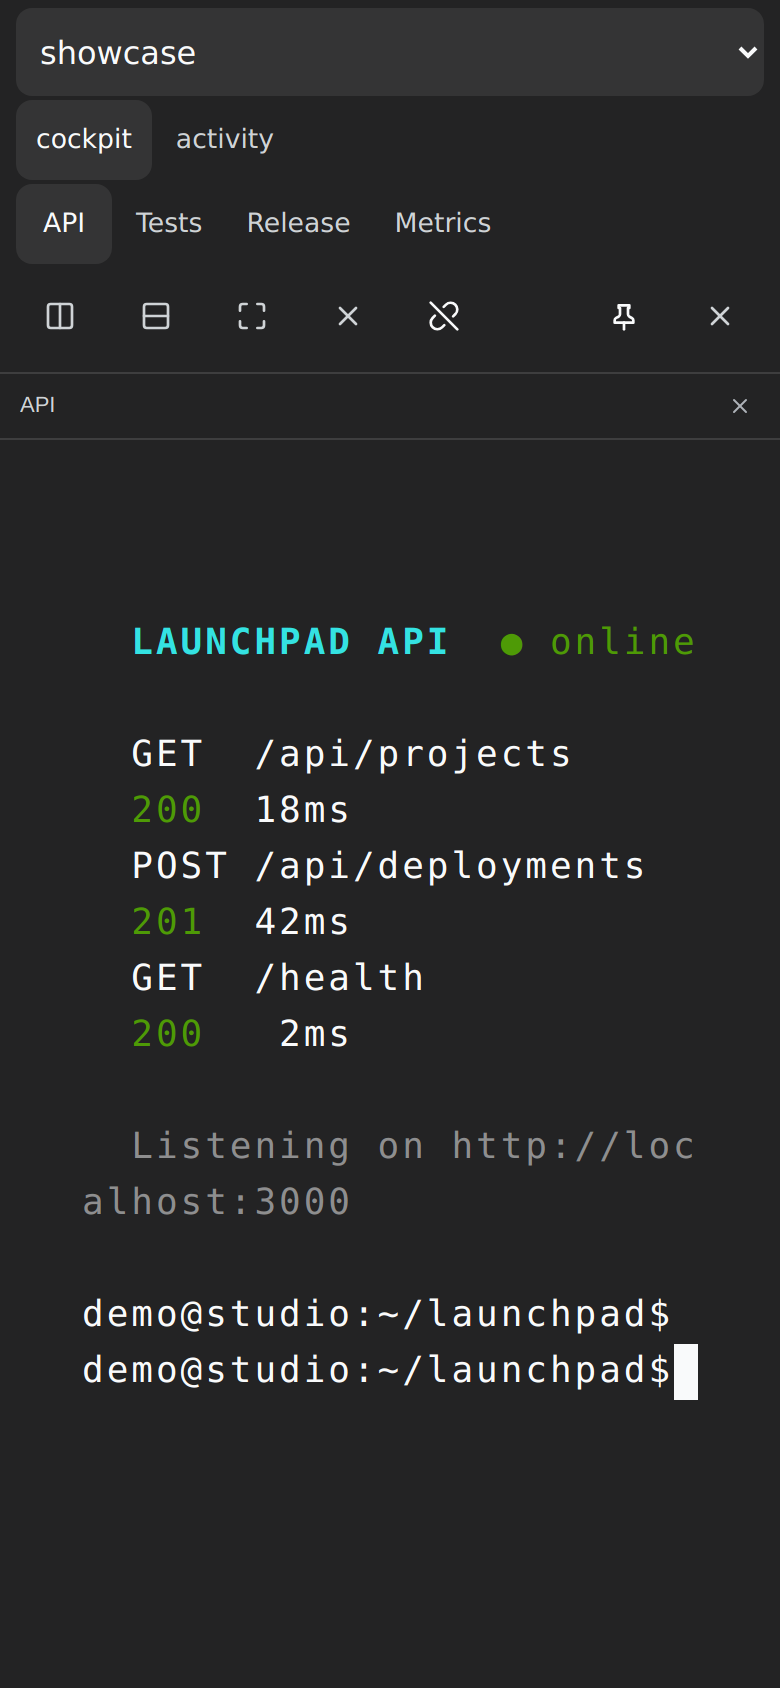
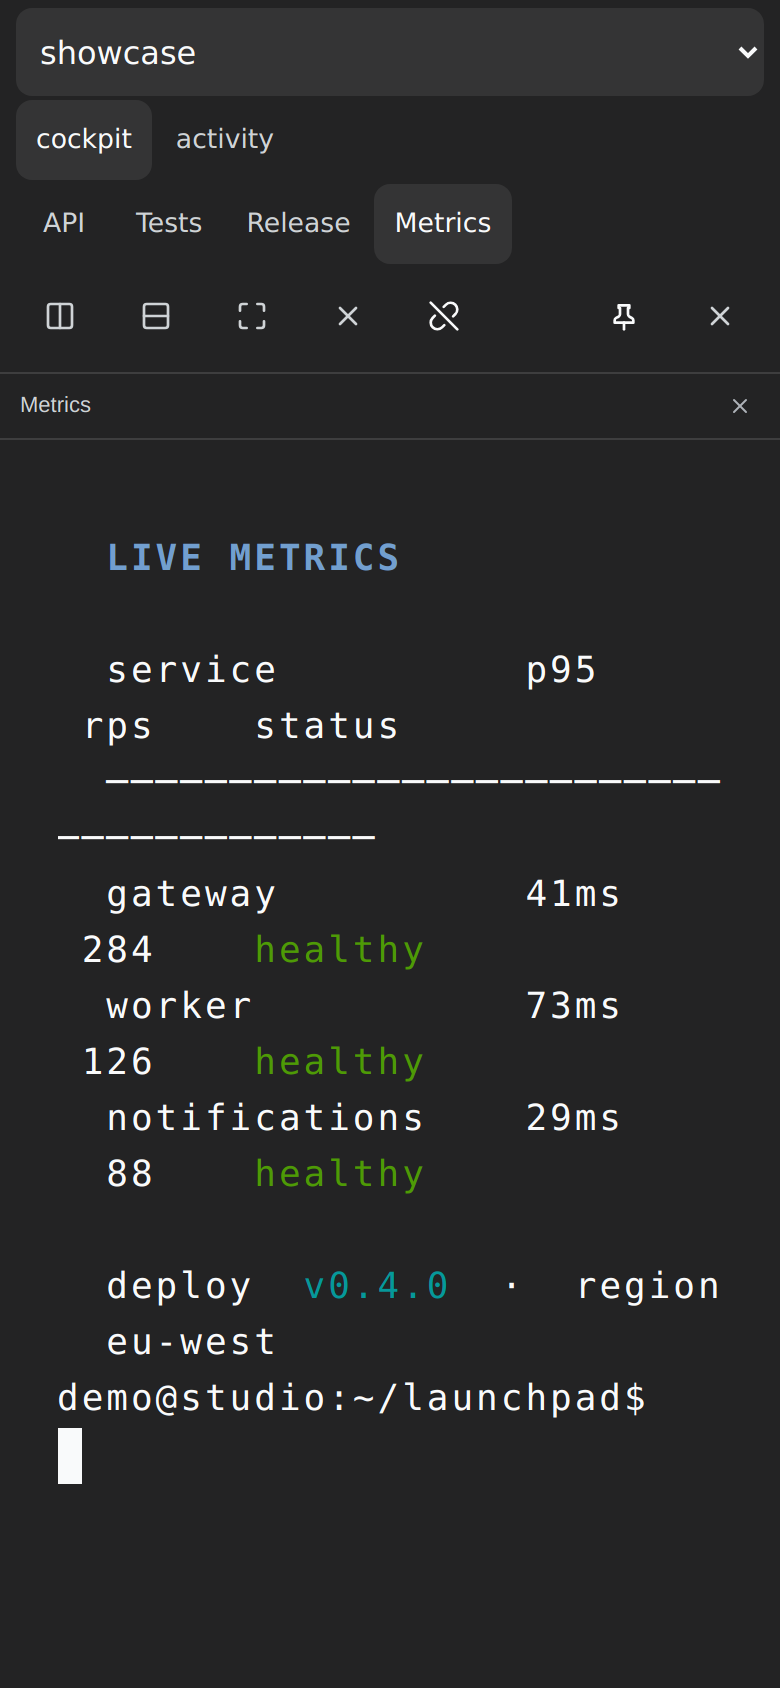
fix: fill mobile cockpit with active pane

diff --git a/lib/client.js b/lib/client.js
@@ -376,7 +376,8 @@ window.__ModuleLoader__.load({
   }
   [data-tmux-cc-shell][data-mobile="1"] [data-tmux-cc-pane]{display:none}
   [data-tmux-cc-shell][data-mobile="1"] [data-tmux-cc-pane][data-active="1"]{
-    display:flex;inset:0;width:100% !important;height:100% !important;box-shadow:none;outline:none;
+    display:flex;left:0 !important;top:0 !important;width:100% !important;height:100% !important;
+    box-shadow:none;outline:none;
   }
   [data-tmux-cc-shell][data-mobile="1"] [data-tmux-cc-ptitle]{height:32px;padding-left:10px}
   [data-tmux-cc-shell][data-mobile="1"] [data-tmux-cc-pclose]{width:32px;height:32px;opacity:1}

diff --git a/src/client-paint.test.ts b/src/client-paint.test.ts
@@ -33,6 +33,8 @@ test('client bundle invariants', () => {
   assert.match(src, /data-tmux-cc-pane-tab/)
   assert.match(src, /prefs\.open && !isNarrowViewport\(\)/)
   assert.match(src, /data-mobile="1"/)
+  // Inline tmux geometry must not survive when a mobile pane becomes active.
+  assert.match(src, /left:0 !important;top:0 !important;width:100% !important;height:100% !important/)
   // IME composition keys must never trigger tmux shortcuts.
   assert.match(src, /event\.isComposing \|\| event\.keyCode === 229/)
 })

diff --git a/CHANGELOG.md b/CHANGELOG.md
@@ -6,6 +6,12 @@ The format follows [Keep a Changelog](https://keepachangelog.com/en/1.1.0/), and
 
 ## [Unreleased]
 
+## [0.4.1]
+
+### Fixed
+
+- Mobile pane switching now overrides the pane's inline desktop `left`/`top` geometry, so every selected pane fills the complete cockpit body instead of remaining offset to its tmux grid position.
+
 ## [0.4.0]
 
 ### Added
@@ -45,7 +51,8 @@ The format follows [Keep a Changelog](https://keepachangelog.com/en/1.1.0/), and
 - Switched input to byte-safe, hex-encoded `send-keys -H` commands.
 - Paired control replies by tmux block tags and added command timeouts.
 
-[Unreleased]: https://github.com/adrianleb/dsh-tmux-cc/compare/v0.4.0...HEAD
+[Unreleased]: https://github.com/adrianleb/dsh-tmux-cc/compare/v0.4.1...HEAD
+[0.4.1]: https://github.com/adrianleb/dsh-tmux-cc/compare/v0.4.0...v0.4.1
 [0.4.0]: https://github.com/adrianleb/dsh-tmux-cc/compare/v0.3.0...v0.4.0
 [0.3.0]: https://github.com/adrianleb/dsh-tmux-cc/releases/tag/v0.3.0
 [0.2.0]: https://github.com/adrianleb/dsh-tmux-cc/releases/tag/v0.2.0
